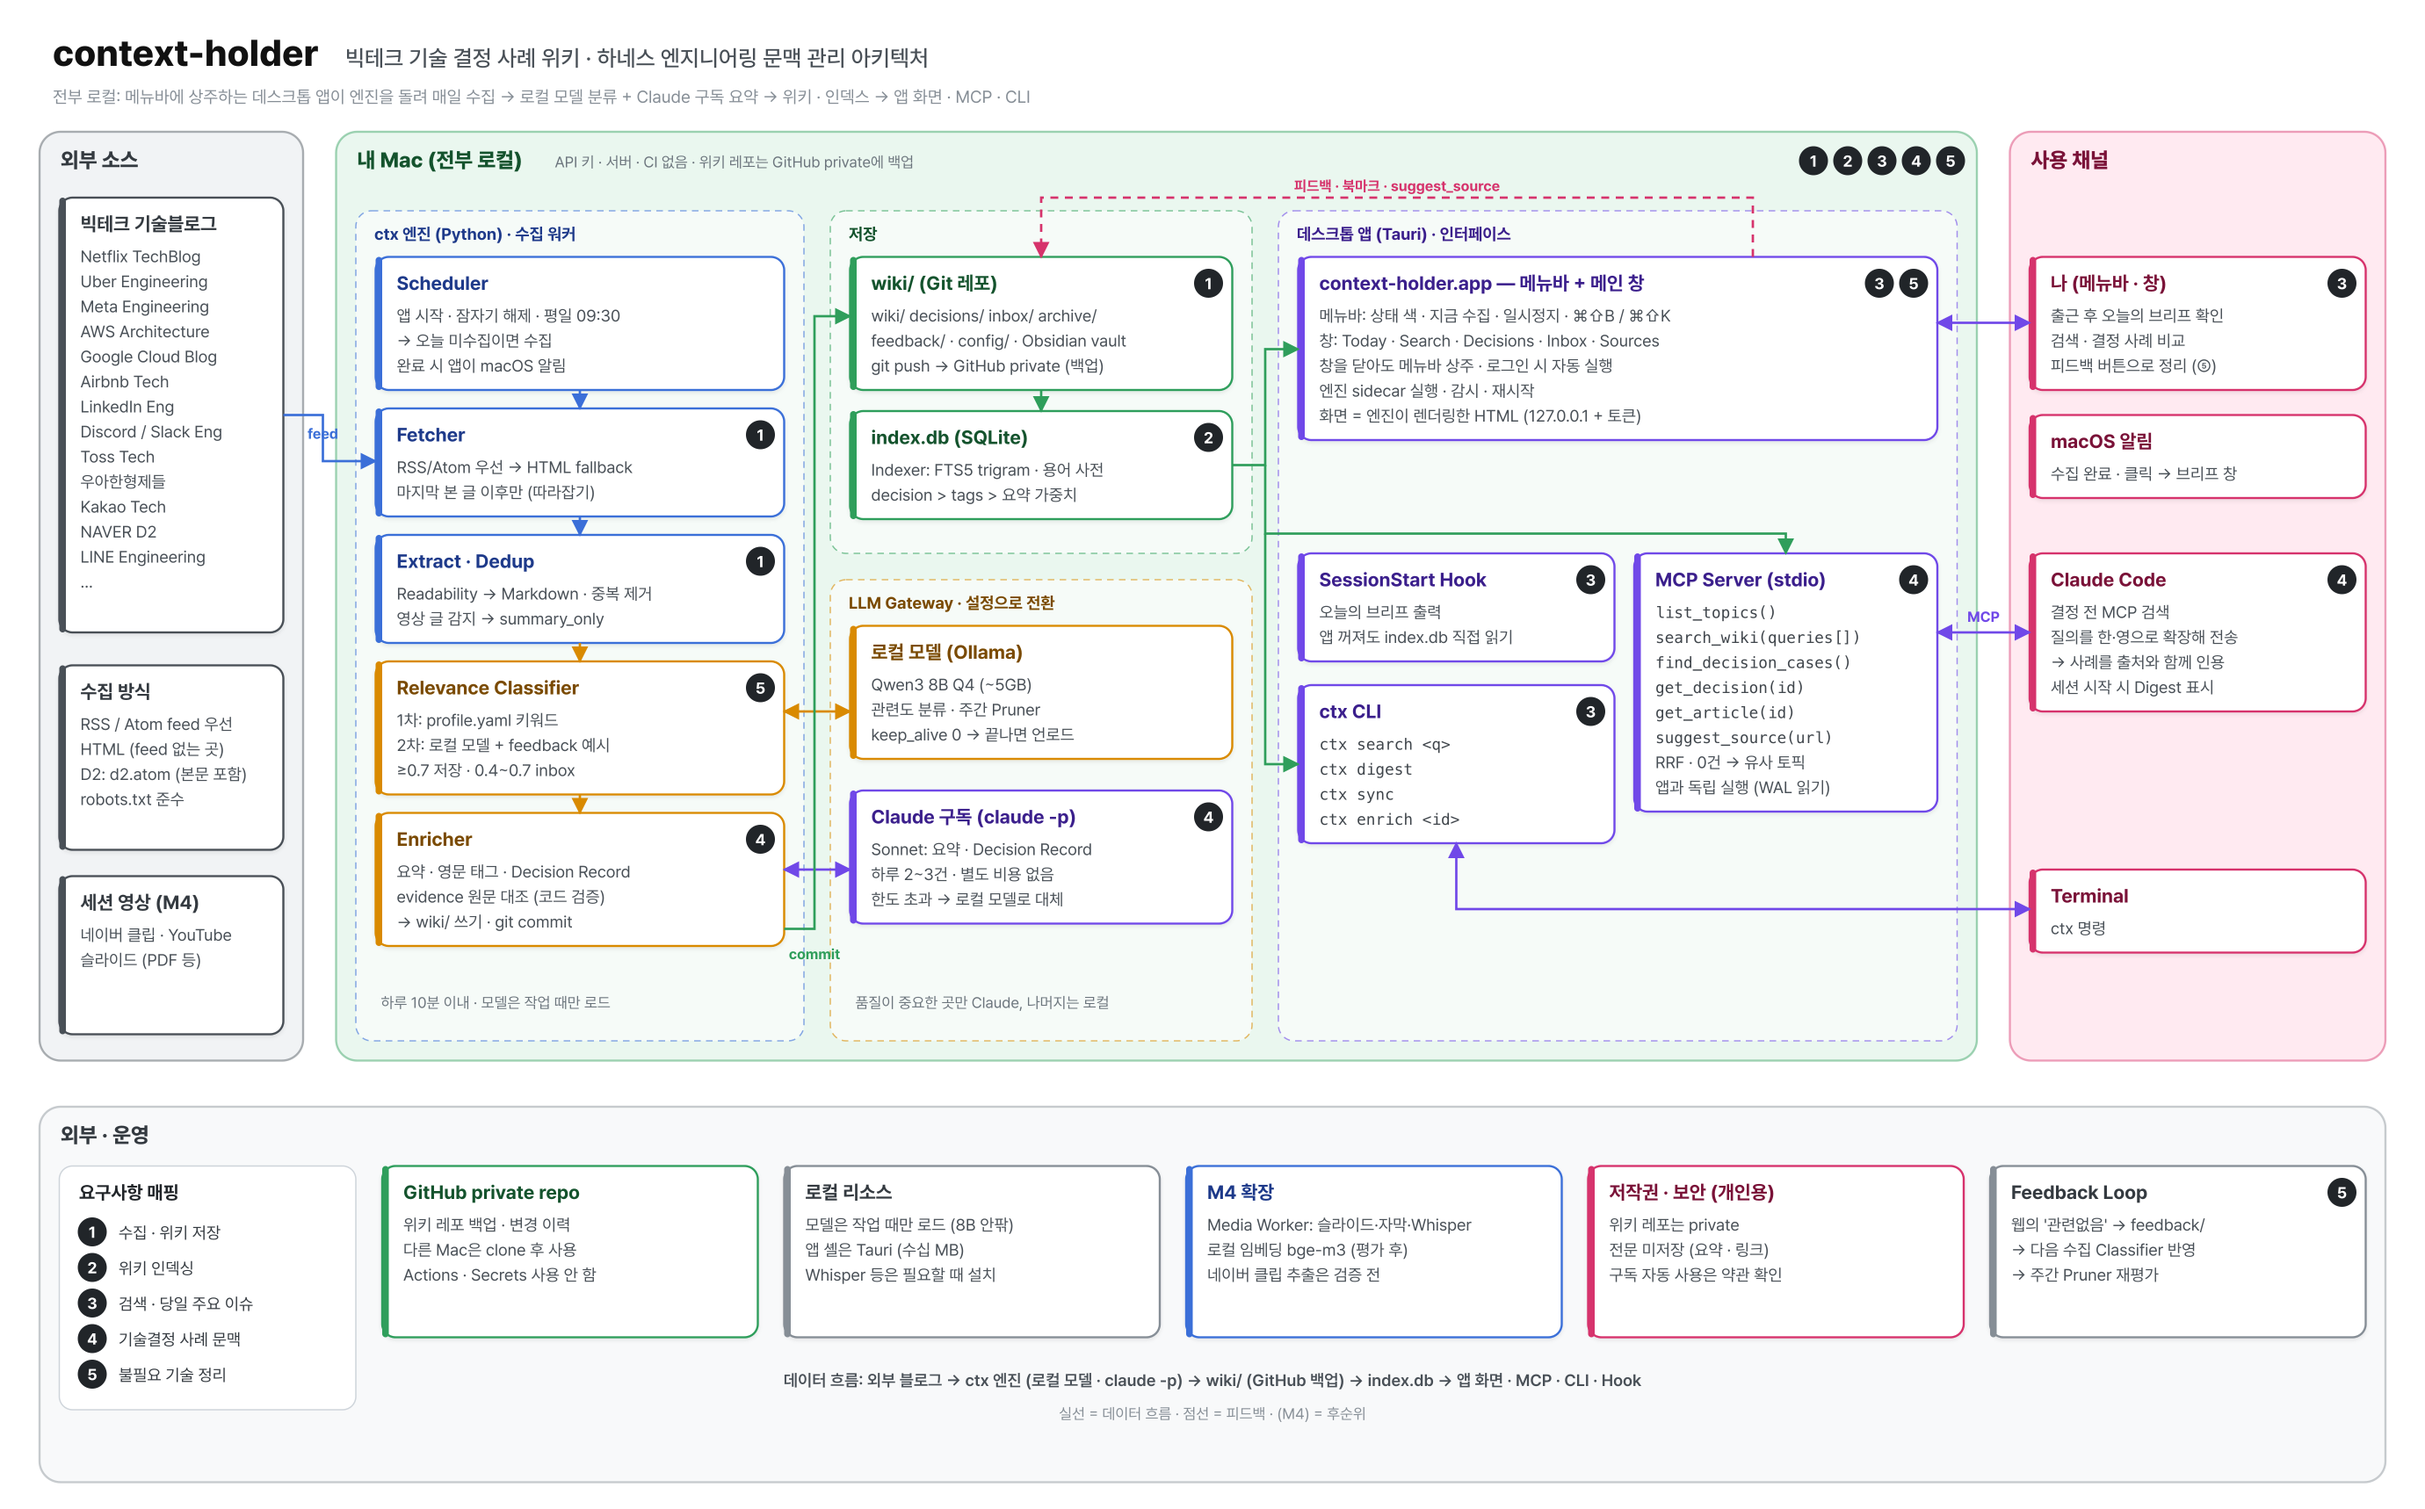
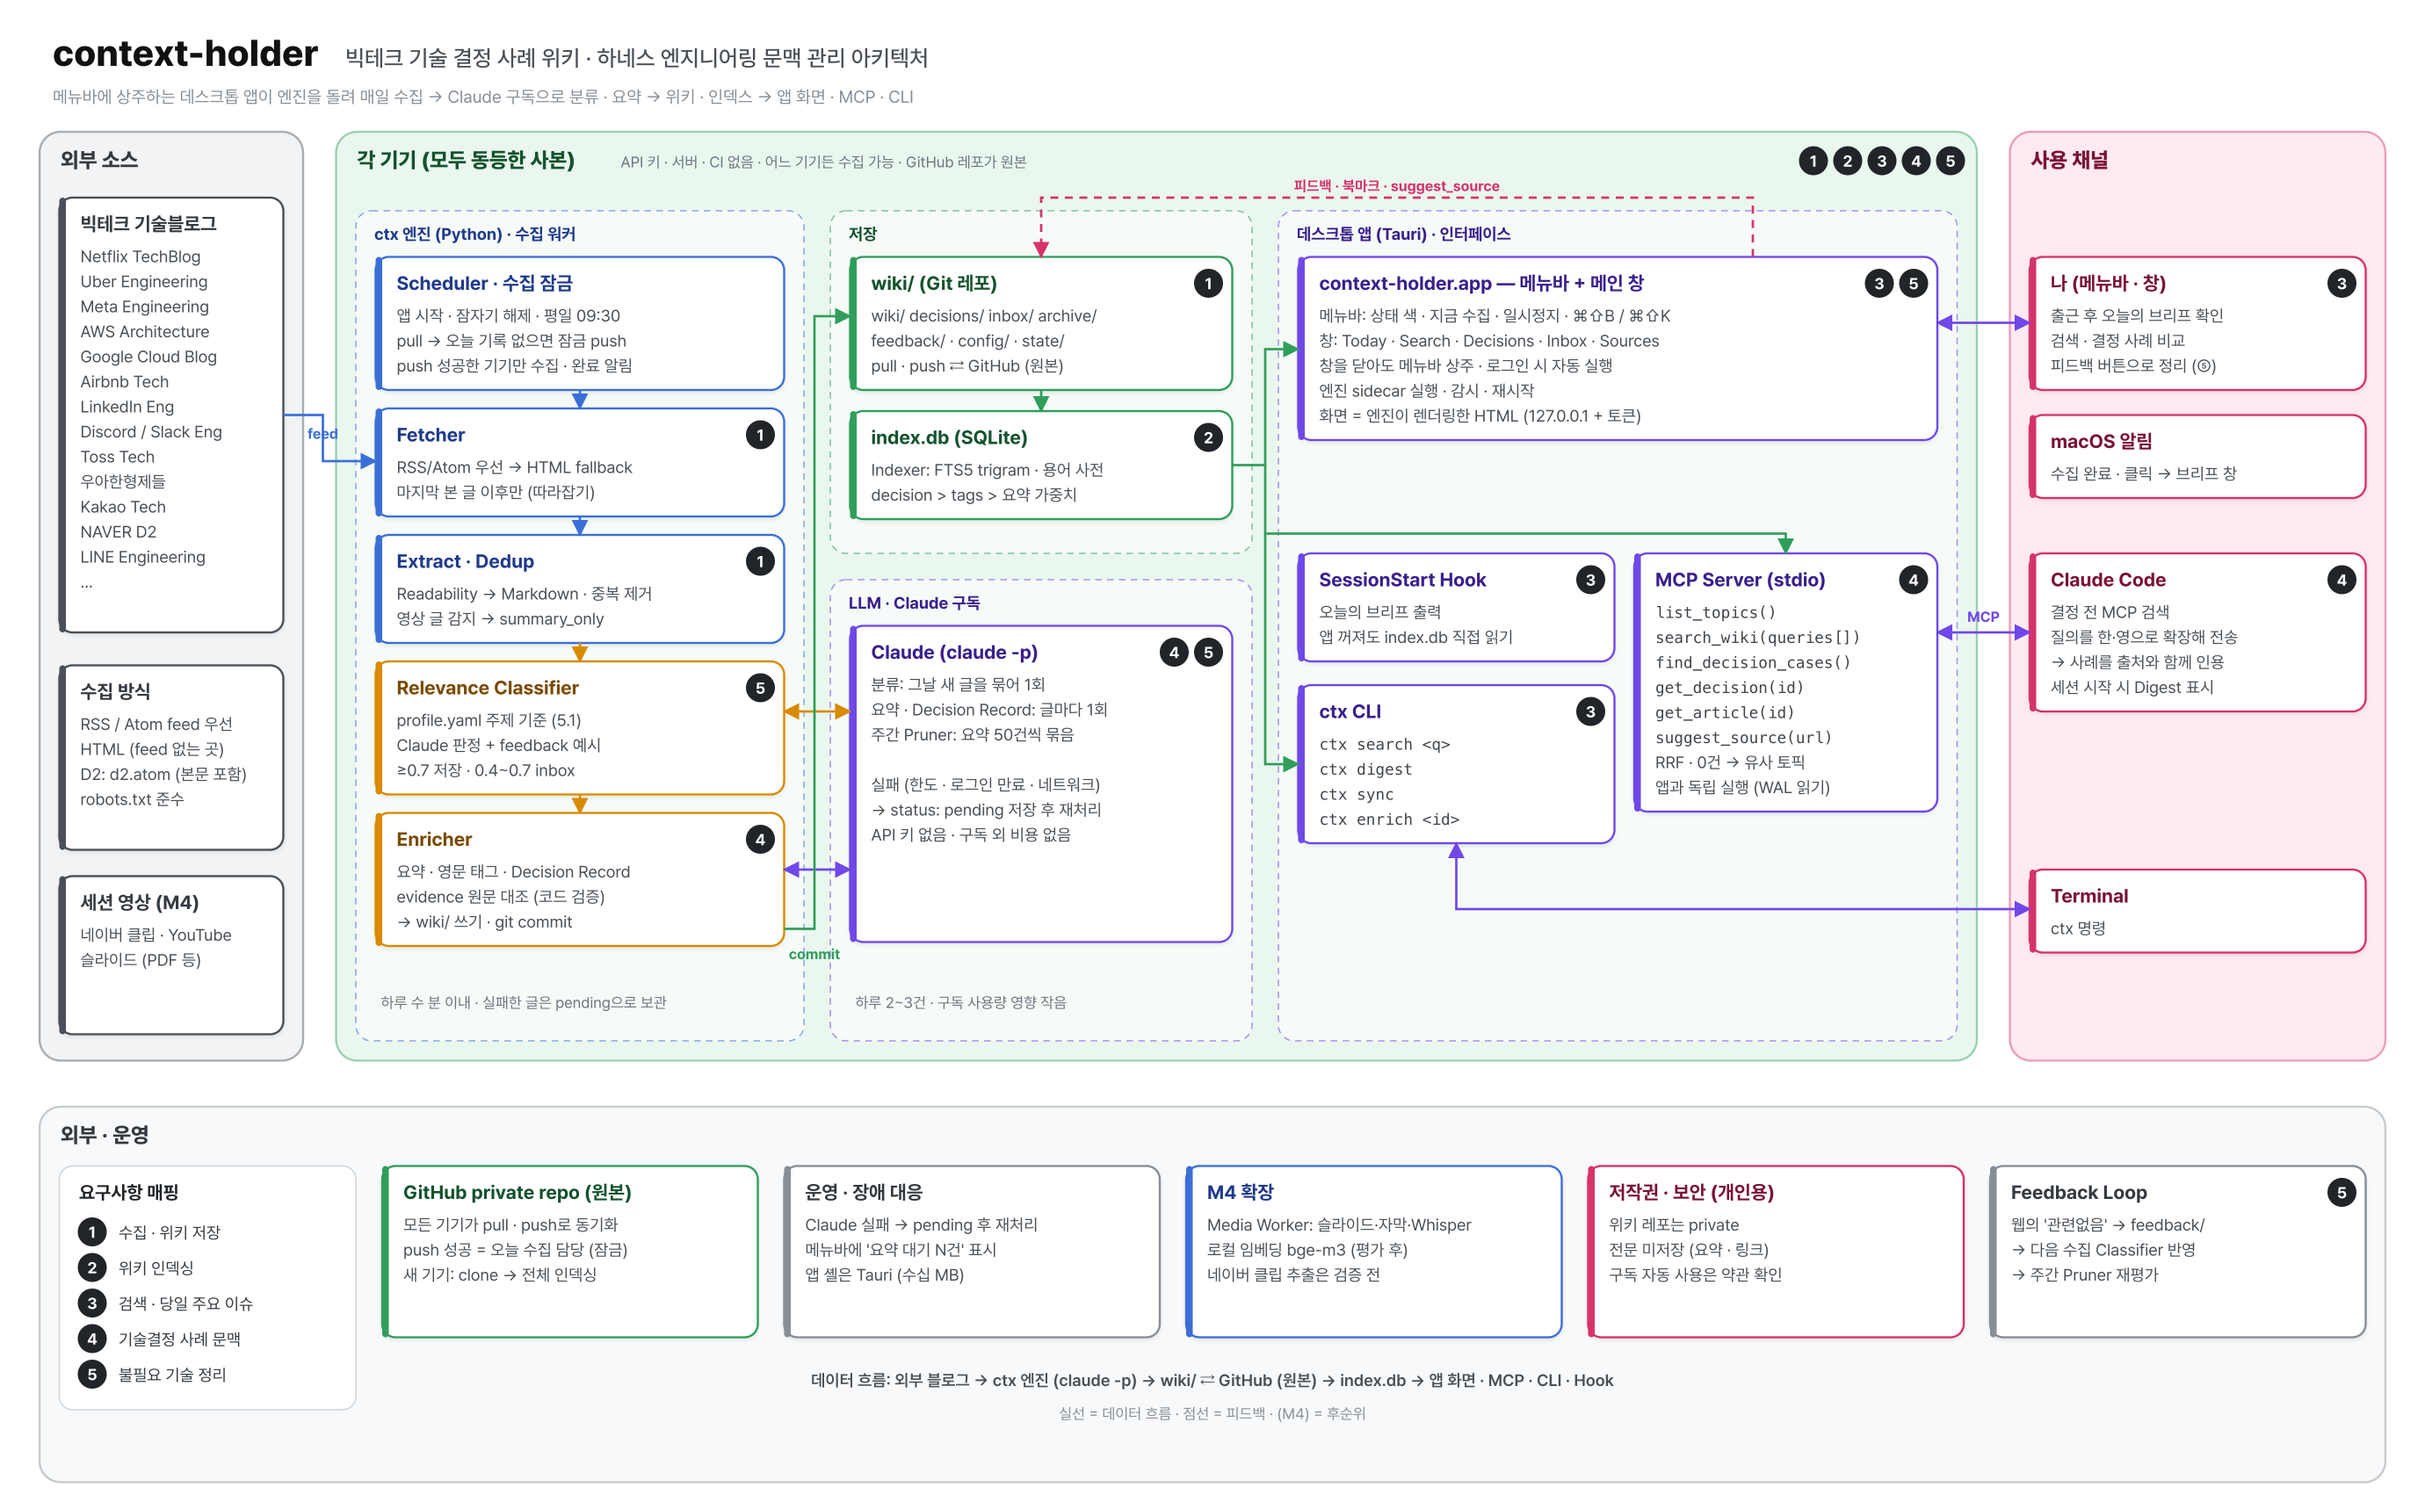
docs: 다중 기기 동기화, 초기 설정, Claude 단일 LLM 설계 반영
- 다중 기기 동기화: GitHub 레포를 원본으로, 어느 기기든 수집. push를 잠금으로 써서 하루 1회 수집, 수집 상태는 state/에 보관
- 초기 설정 · 인증: 엔진과 git 라이브러리를 앱에 포함, GitHub Device Flow와 Claude 로그인으로 브라우저 승인 최대 2번
- LLM: 로컬 모델 제거, 분류 · 요약 · Pruner를 Claude 구독으로 처리. 실패 시 pending 후 재처리
- README: 시작하기(준비물, 설치 순서) 추가
- 아키텍처 그림 갱신

diff --git a/docs/architecture/generate.py b/docs/architecture/generate.py
@@ -113,7 +113,7 @@ out.append(f'<rect width="{W}" height="{H}" fill="#FFFFFF"/>')
 
 text(40, 50, "context-holder", size=28, weight=800, fill="#111")
 text(262, 50, "빅테크 기술 결정 사례 위키 · 하네스 엔지니어링 문맥 관리 아키텍처", size=17, weight=500, fill="#495057")
-text(40, 78, "전부 로컬: 메뉴바에 상주하는 데스크톱 앱이 엔진을 돌려 매일 수집 → 로컬 모델 분류 + Claude 구독 요약 → 위키 · 인덱스 → 앱 화면 · MCP · CLI",
+text(40, 78, "메뉴바에 상주하는 데스크톱 앱이 엔진을 돌려 매일 수집 → Claude 구독으로 분류 · 요약 → 위키 · 인덱스 → 앱 화면 · MCP · CLI",
      size=13, fill="#868E96")
 
 TOP, BOT = 100, 805
@@ -129,35 +129,34 @@ box(45, 505, 170, 140, "src", "수집 방식", ["RSS / Atom feed 우선", "HTML 
 box(45, 665, 170, 120, "src", "세션 영상 (M4)", ["네이버 클립 · YouTube", "슬라이드 (PDF 등)"])
 
 # ---------- 내 Mac ----------
-panel(255, TOP, 1245, BOT - TOP, "local", "내 Mac (전부 로컬)", nums=(1, 2, 3, 4, 5),
-      sub="API 키 · 서버 · CI 없음 · 위키 레포는 GitHub private에 백업", sub_dx=150)
+panel(255, TOP, 1245, BOT - TOP, "local", "각 기기 (모두 동등한 사본)", nums=(1, 2, 3, 4, 5),
+      sub="API 키 · 서버 · CI 없음 · 어느 기기든 수집 가능 · GitHub 레포가 원본", sub_dx=200)
 
 # 수집 워커
 subpanel(270, 160, 340, 630, "ing", "ctx 엔진 (Python) · 수집 워커")
 X_A, W_A = 285, 310
-box(X_A, 195, W_A, 101, "ing", "Scheduler", ["앱 시작 · 잠자기 해제 · 평일 09:30", "→ 오늘 미수집이면 수집", "완료 시 앱이 macOS 알림"])
+box(X_A, 195, W_A, 101, "ing", "Scheduler · 수집 잠금", ["앱 시작 · 잠자기 해제 · 평일 09:30", "pull → 오늘 기록 없으면 잠금 push", "push 성공한 기기만 수집 · 완료 알림"])
 box(X_A, 310, W_A, 82, "ing", "Fetcher", ["RSS/Atom 우선 → HTML fallback", "마지막 본 글 이후만 (따라잡기)"], nums=(1,))
 box(X_A, 406, W_A, 82, "ing", "Extract · Dedup", ["Readability → Markdown · 중복 제거", "영상 글 감지 → summary_only"], nums=(1,))
 box(X_A, 502, W_A, 101, "cur", "Relevance Classifier", [
-    "1차: profile.yaml 키워드", "2차: 로컬 모델 + feedback 예시", "≥0.7 저장 · 0.4~0.7 inbox",
+    "profile.yaml 주제 기준 (5.1)", "Claude 판정 + feedback 예시", "≥0.7 저장 · 0.4~0.7 inbox",
 ], nums=(5,))
 box(X_A, 617, W_A, 101, "cur", "Enricher", [
     "요약 · 영문 태그 · Decision Record", "evidence 원문 대조 (코드 검증)", "→ wiki/ 쓰기 · git commit",
 ], nums=(4,))
-text(X_A + 4, 765, "하루 10분 이내 · 모델은 작업 때만 로드", size=11.5, fill="#6C757D")
+text(X_A + 4, 765, "하루 수 분 이내 · 실패한 글은 pending으로 보관", size=11.5, fill="#6C757D")
 
 # 저장
 subpanel(630, 160, 320, 260, "sto", "저장")
 box(645, 195, 290, 101, "sto", "wiki/ (Git 레포)", [
-    "wiki/ decisions/ inbox/ archive/", "feedback/ · config/ · Obsidian vault", "git push → GitHub private (백업)",
+    "wiki/ decisions/ inbox/ archive/", "feedback/ · config/ · state/", "pull · push ⇄ GitHub (원본)",
 ], nums=(1,))
 box(645, 312, 290, 82, "sto", "index.db (SQLite)", ["Indexer: FTS5 trigram · 용어 사전", "decision > tags > 요약 가중치"], nums=(2,))
 
 # LLM Gateway
-subpanel(630, 440, 320, 350, "cur", "LLM Gateway · 설정으로 전환")
-box(645, 475, 290, 101, "cur", "로컬 모델 (Ollama)", ["Qwen3 8B Q4 (~5GB)", "관련도 분류 · 주간 Pruner", "keep_alive 0 → 끝나면 언로드"])
-box(645, 600, 290, 101, "srv", "Claude 구독 (claude -p)", ["Sonnet: 요약 · Decision Record", "하루 2~3건 · 별도 비용 없음", "한도 초과 → 로컬 모델로 대체"], nums=(4,))
-text(649, 765, "품질이 중요한 곳만 Claude, 나머지는 로컬", size=11.5, fill="#6C757D")
+subpanel(630, 440, 320, 350, "srv", "LLM · Claude 구독")
+box(645, 475, 290, 240, "srv", "Claude (claude -p)", ["분류: 그날 새 글을 묶어 1회", "요약 · Decision Record: 글마다 1회", "주간 Pruner: 요약 50건씩 묶음", "", "실패 (한도 · 로그인 만료 · 네트워크)", "→ status: pending 저장 후 재처리", "API 키 없음 · 구독 외 비용 없음"], nums=(4, 5))
+text(649, 765, "하루 2~3건 · 구독 사용량 영향 작음", size=11.5, fill="#6C757D")
 
 # 화면 · 인터페이스
 subpanel(970, 160, 515, 630, "srv", "데스크톱 앱 (Tauri) · 인터페이스")
@@ -215,12 +214,12 @@ for i, s in enumerate(["수집 · 위키 저장", "위키 인덱싱", "검색 ·
     text(90, BAND_Y + 100 + i * 27, s, size=12.5, fill="#343A40")
 
 BY, BH, BW = BAND_Y + 45, 130, 285
-box(290, BY, BW, BH, "sto", "GitHub private repo", ["위키 레포 백업 · 변경 이력", "다른 Mac은 clone 후 사용", "Actions · Secrets 사용 안 함"])
-box(595, BY, BW, BH, "ops", "로컬 리소스", ["모델은 작업 때만 로드 (8B 안팎)", "앱 셸은 Tauri (수십 MB)", "Whisper 등은 필요할 때 설치"])
+box(290, BY, BW, BH, "sto", "GitHub private repo (원본)", ["모든 기기가 pull · push로 동기화", "push 성공 = 오늘 수집 담당 (잠금)", "새 기기: clone → 전체 인덱싱"])
+box(595, BY, BW, BH, "ops", "운영 · 장애 대응", ["Claude 실패 → pending 후 재처리", "메뉴바에 '요약 대기 N건' 표시", "앱 셸은 Tauri (수십 MB)"])
 box(900, BY, BW, BH, "ing", "M4 확장", ["Media Worker: 슬라이드·자막·Whisper", "로컬 임베딩 bge-m3 (평가 후)", "네이버 클립 추출은 검증 전"])
 box(1205, BY, BW, BH, "con", "저작권 · 보안 (개인용)", ["위키 레포는 private", "전문 미저장 (요약 · 링크)", "구독 자동 사용은 약관 확인"])
 box(1510, BY, BW, BH, "ops", "Feedback Loop", ["웹의 '관련없음' → feedback/", "→ 다음 수집 Classifier 반영", "→ 주간 Pruner 재평가"], nums=(5,))
-text(920, BAND_Y + 212, "데이터 흐름: 외부 블로그 → ctx 엔진 (로컬 모델 · claude -p) → wiki/ (GitHub 백업) → index.db → 앱 화면 · MCP · CLI · Hook",
+text(920, BAND_Y + 212, "데이터 흐름: 외부 블로그 → ctx 엔진 (claude -p) → wiki/ ⇄ GitHub (원본) → index.db → 앱 화면 · MCP · CLI · Hook",
      size=12.5, weight=600, fill="#495057", anchor="middle")
 text(920, BAND_Y + 237, "실선 = 데이터 흐름 · 점선 = 피드백 · (M4) = 후순위", size=11.5, fill="#868E96", anchor="middle")
 

diff --git a/docs/architecture/generate_overview.py b/docs/architecture/generate_overview.py
@@ -63,7 +63,7 @@ def store(cx: float, top: float, w: float, h: float) -> None:
                f'fill="{bg}" stroke="{accent}" stroke-width="2" filter="url(#shadow)"/>')
     out.append(f'<ellipse cx="{cx}" cy="{top}" rx="{rx}" ry="{ry}" fill="#fff" stroke="{accent}" stroke-width="2"/>')
     text(cx, top + 48, "위키 + 인덱스", size=18, weight=800, fill=ink, anchor="middle")
-    for i, line in enumerate(["Markdown 위키 (Git)", "SQLite 검색 인덱스", "GitHub private 백업"]):
+    for i, line in enumerate(["Markdown 위키 (Git)", "GitHub이 원본 · 기기 간 동기화", "검색 인덱스는 기기마다"]):
         text(cx, top + 78 + i * 22, line, size=13, fill="#343A40", anchor="middle")
     badge(left + 4, top - 14, 2)
 
@@ -100,7 +100,7 @@ actor(50, 300, 300, 230, "blog", "외부 소스", "빅테크 기술블로그", [
 ])
 actor(430, 270, 350, 290, "worker", "백그라운드 상주", "수집 · 정리 워커", [
     "매일 아침 자동 수집", "관련도 분류 → 불필요 기술 제외", "요약 + 기술 결정 기록 추출", "영상 글은 본문 요약 우선",
-], nums=(1, 5), chip="로컬 모델 + Claude 구독")
+], nums=(1, 5), chip="Claude 구독으로 분류 · 요약")
 store(970, 345, 220, 150)
 actor(1160, 130, 390, 240, "app", "사람이 보는 곳", "화면 (데스크톱 앱)", [
     "메뉴바 상주 · 수집 상태", "오늘의 브리프 (주요 이슈 Top 5)", "검색 · 결정 사례 비교", "Inbox · 관련없음 피드백",

diff --git a/README.md b/README.md
@@ -10,6 +10,22 @@
 - **화면**: 메뉴바에 상주하는 데스크톱 앱이다. 오늘의 브리프, 검색, 회사별 결정 사례 비교를 보여 주고, 관련없는 글은 피드백으로 정리한다.
 - **Claude**: 기술 결정 전에 MCP로 위키를 검색해 빅테크 사례를 출처와 함께 문맥으로 가져온다.
 
+## 시작하기
+
+준비물:
+- macOS
+- GitHub 계정
+- Claude Pro/Max 구독
+
+git과 Python은 앱에 들어 있어 따로 설치할 필요가 없다.
+
+1. 앱을 설치하고 실행한다.
+2. **GitHub로 로그인**한다. 브라우저에서 승인하면 위키 레포(`context-wiki`, private)를 찾거나 새로 만든다.
+3. **Claude 연결**. Claude Code가 없으면 앱이 설치하고, 브라우저에서 로그인을 승인한다.
+4. 완료. 바로 첫 수집을 시작한다.
+
+다른 기기에서도 같은 순서로 설치하면 같은 위키를 쓴다. 상세는 [계획 3.2](docs/plan.md#32-초기-설정--인증).
+
 ## 수집 대상 블로그
 
 기준: **백엔드 · 프론트엔드 · AI 엔지니어링 글이 꾸준히 나오는 곳.** AI는 엔지니어링에 쓰는 글(LLM 비용 · 서빙, 에이전트 · MCP · 하네스, 컨텍스트 설계, AI 개발 자동화)만 수집하고, 모델을 만드는 글(임베딩 학습, 추천 모델 구조 등)은 거른다. 상세 기준은 [계획 5.1](docs/plan.md#51-관련도-기준) 참고.
